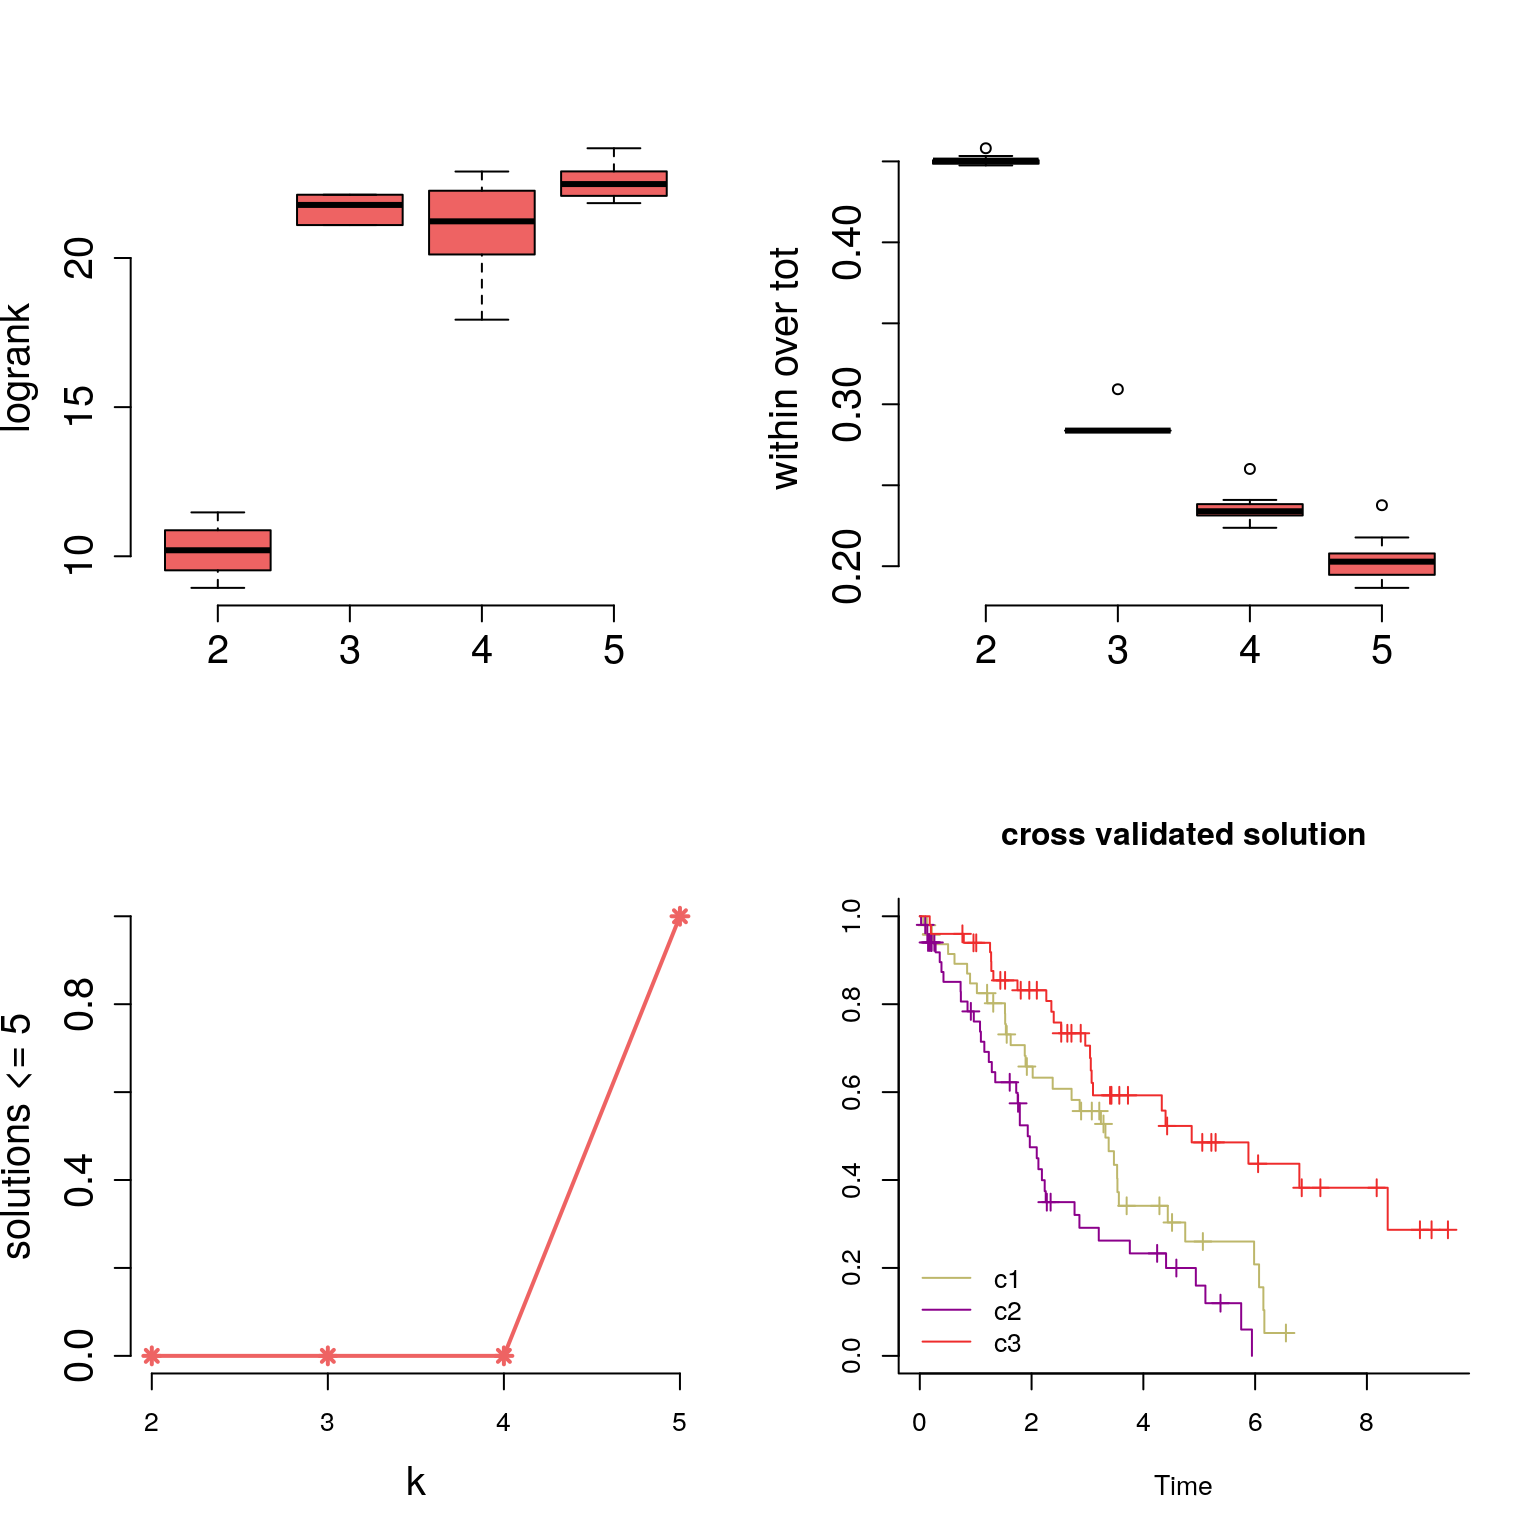
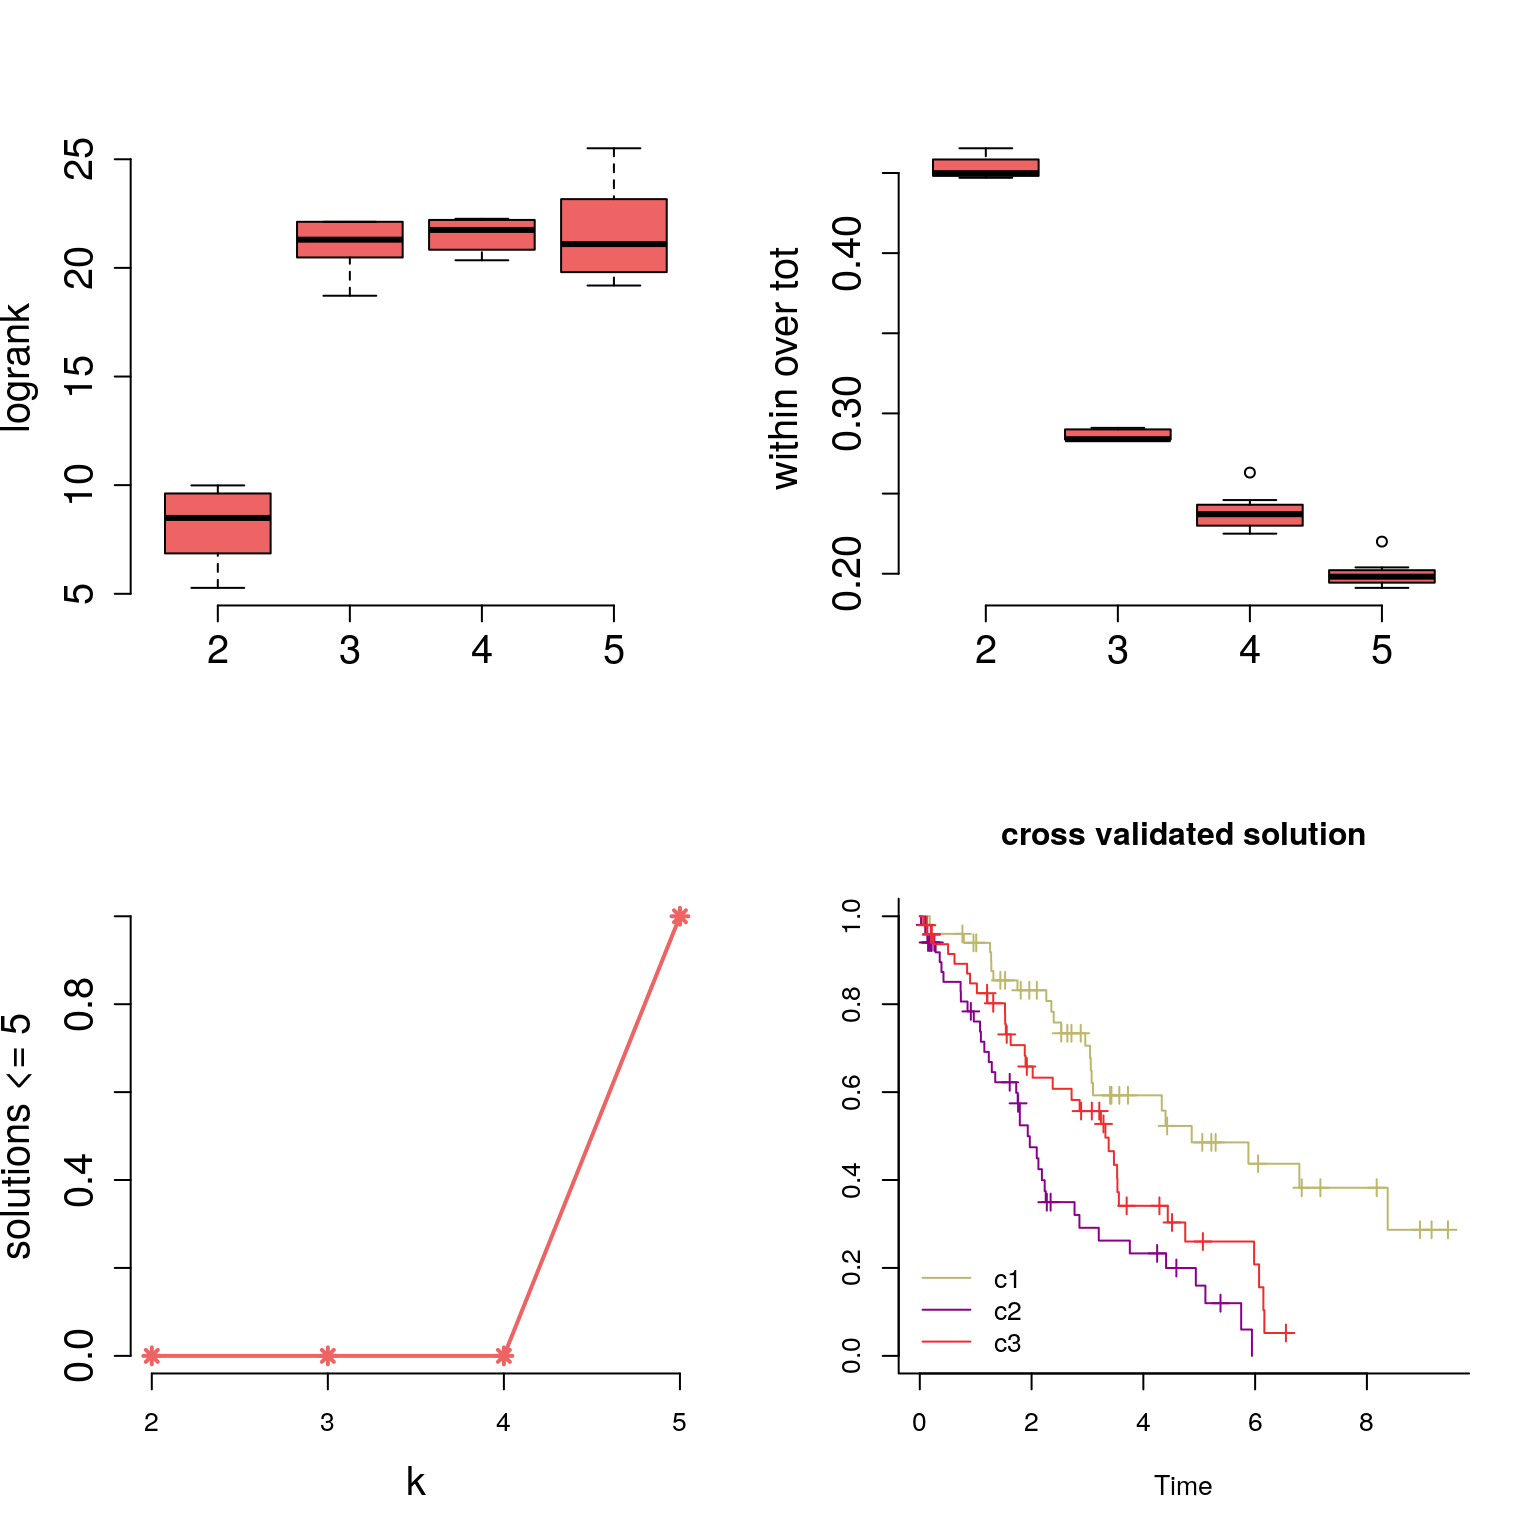
clean consensus.summary

diff --git a/README.md b/README.md
@@ -25,9 +25,9 @@ etc.
 
 Below is the workflow of proposed *survClust* method:
 
-1.  `getDist` - Compute a weighted distance matrix across given `m` data
-    types. Standardization and accounting for non-overlapping samples is
-    also accomplished in this step.
+1.  `getDist` - Compute a weighted distance matrix based on outcome
+    across given `m` data types. Standardization and accounting for
+    non-overlapping samples is also accomplished in this step.
 
 2.  `combineDist`- Integrate `m` data types by averaging over `m`
     weighted distance matrices.
@@ -155,7 +155,7 @@ results over cross validation rounds, pick **k** and arrive at
 consolidated test labels.
 
 We see how logrank statistic is maximized at **k=3** and Standardized
-Pooled Withink Sum of Square Statistic (SPSS) is elbow-ed at k=3 as
+Pooled Within Sum of Square Statistic (SPWSS) is elbow-ed at k=3 as
 well.
 
 ``` r
@@ -175,7 +175,7 @@ cv.labels = consensus.summary(3,dd, cv.fit, survdat, bty="l")
 ## performing consensus on 10 rounds
 ```
 
-\[1\] “cross validated labels:” cv.labels 1 2 3 49 51 50
+\[1\] “cross validated labels:” cv.labels 1 2 3 50 51 49
 <img src="README_figures/README-unnamed-chunk-5-1.png" width="768" style="display: block; margin: auto;" />
 
 ``` r
@@ -234,13 +234,13 @@ cross validated labels vs truth
 
 <td style="text-align:right;">
 
-0
+50
 
 </td>
 
 <td style="text-align:right;">
 
-49
+0
 
 </td>
 
@@ -290,13 +290,13 @@ cross validated labels vs truth
 
 <td style="text-align:right;">
 
-50
+0
 
 </td>
 
 <td style="text-align:right;">
 
-0
+49
 
 </td>
 
@@ -315,12 +315,17 @@ cross validated labels vs truth
 Whereas if we do k-means on the other hand
 
 ``` r
-
+#compute distances (unweighted) between samples
 kdd = as.matrix(dist(x[[1]], method="euclidean"))
+
+#project them in multidimension space via cmdscale
 kcmd.mat = cmdscale(kdd, nrow(kdd)-1)
+
+#cluster using k-means
 kmeans.soln = kmeans(kcmd.mat,3,nstart=100)
 
-print(kable(table(kmeans.soln$cluster, truth), "html", caption="kmeans solution vs truth", row.names = TRUE) %>%
+#plot cross tabulation between the truth and k=3 of kmeans
+print(kable(table(kmeans.soln$cluster, truth), "html", caption="k-means solution vs truth", row.names = TRUE) %>%
       kable_styling(bootstrap_options = "striped", full_width = F,position="left"))
 ```
 
@@ -328,7 +333,7 @@ print(kable(table(kmeans.soln$cluster, truth), "html", caption="kmeans solution 
 
 <caption>
 
-kmeans solution vs truth
+k-means solution vs truth
 
 </caption>
 
@@ -374,6 +379,34 @@ kmeans solution vs truth
 
 <td style="text-align:right;">
 
+15
+
+</td>
+
+<td style="text-align:right;">
+
+24
+
+</td>
+
+<td style="text-align:right;">
+
+16
+
+</td>
+
+</tr>
+
+<tr>
+
+<td style="text-align:left;">
+
+2
+
+</td>
+
+<td style="text-align:right;">
+
 35
 
 </td>
@@ -396,7 +429,7 @@ kmeans solution vs truth
 
 <td style="text-align:left;">
 
-2
+3
 
 </td>
 
@@ -415,34 +448,6 @@ kmeans solution vs truth
 <td style="text-align:right;">
 
 34
-
-</td>
-
-</tr>
-
-<tr>
-
-<td style="text-align:left;">
-
-3
-
-</td>
-
-<td style="text-align:right;">
-
-15
-
-</td>
-
-<td style="text-align:right;">
-
-24
-
-</td>
-
-<td style="text-align:right;">
-
-16
 
 </td>
 
